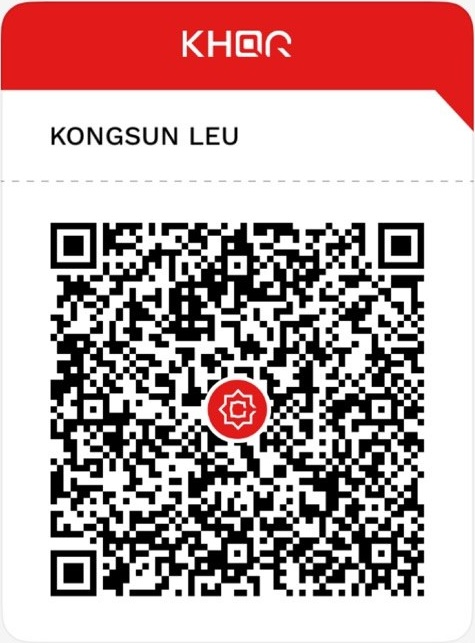
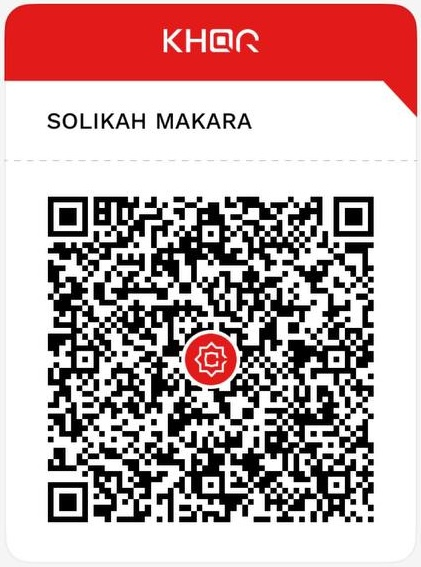
update text and qr

Changed region(s): [[0.0926, 0.3298, 0.8955, 0.9295], [0.0, 0.0, 1.0, 0.2099], [0.0926, 0.1799, 0.6176, 0.2399]]

diff --git a/lib/orderMessages.ts b/lib/orderMessages.ts
@@ -184,7 +184,7 @@ export function abaPaymentText(order: OrderRecord) {
     `ABA: ${escapeHtml(ABA_ACCOUNT_NUMBER)} (${escapeHtml(ABA_ACCOUNT_NAME)})`,
     ``,
     `១. ស្កេន QR ឬចុច <b>«បើក ABA ដើម្បីបង់»</b>`,
-    `២. ដាក់ចំណាំលេខ <code>${n}</code> (ចុចដើម្បីចម្លង)`,
+    `២. ដាក់ចំណាំលេខ <code>${n}</code>`,
     `៣. បង់រួចចុច <b>«✅ បានបង់ប្រាក់»</b>`,
   ].join("\n");
 }
